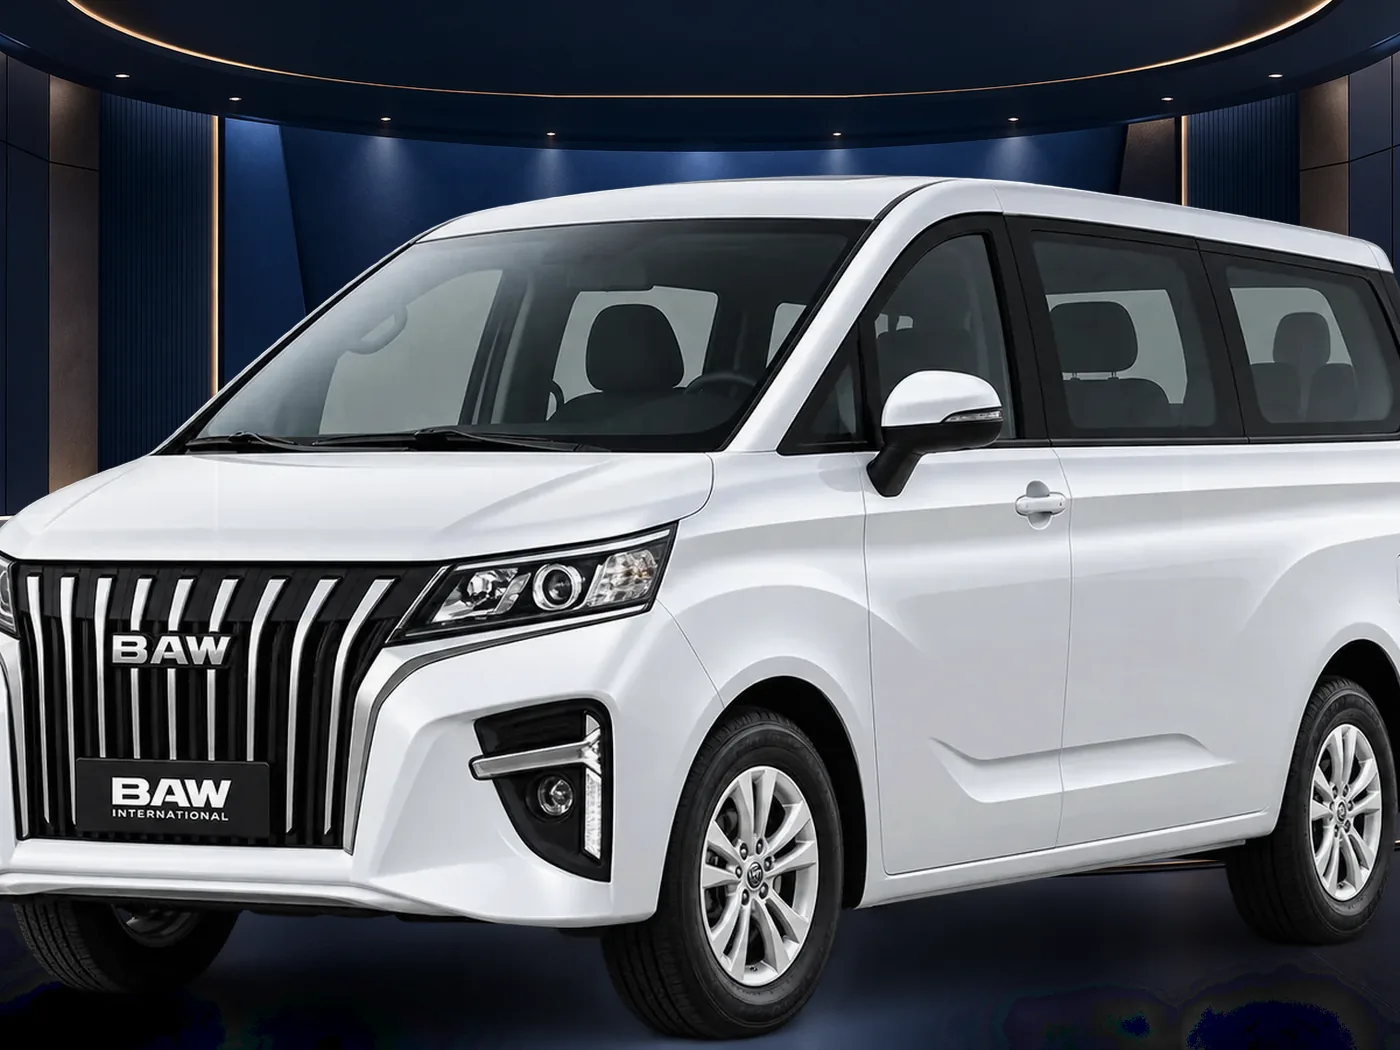
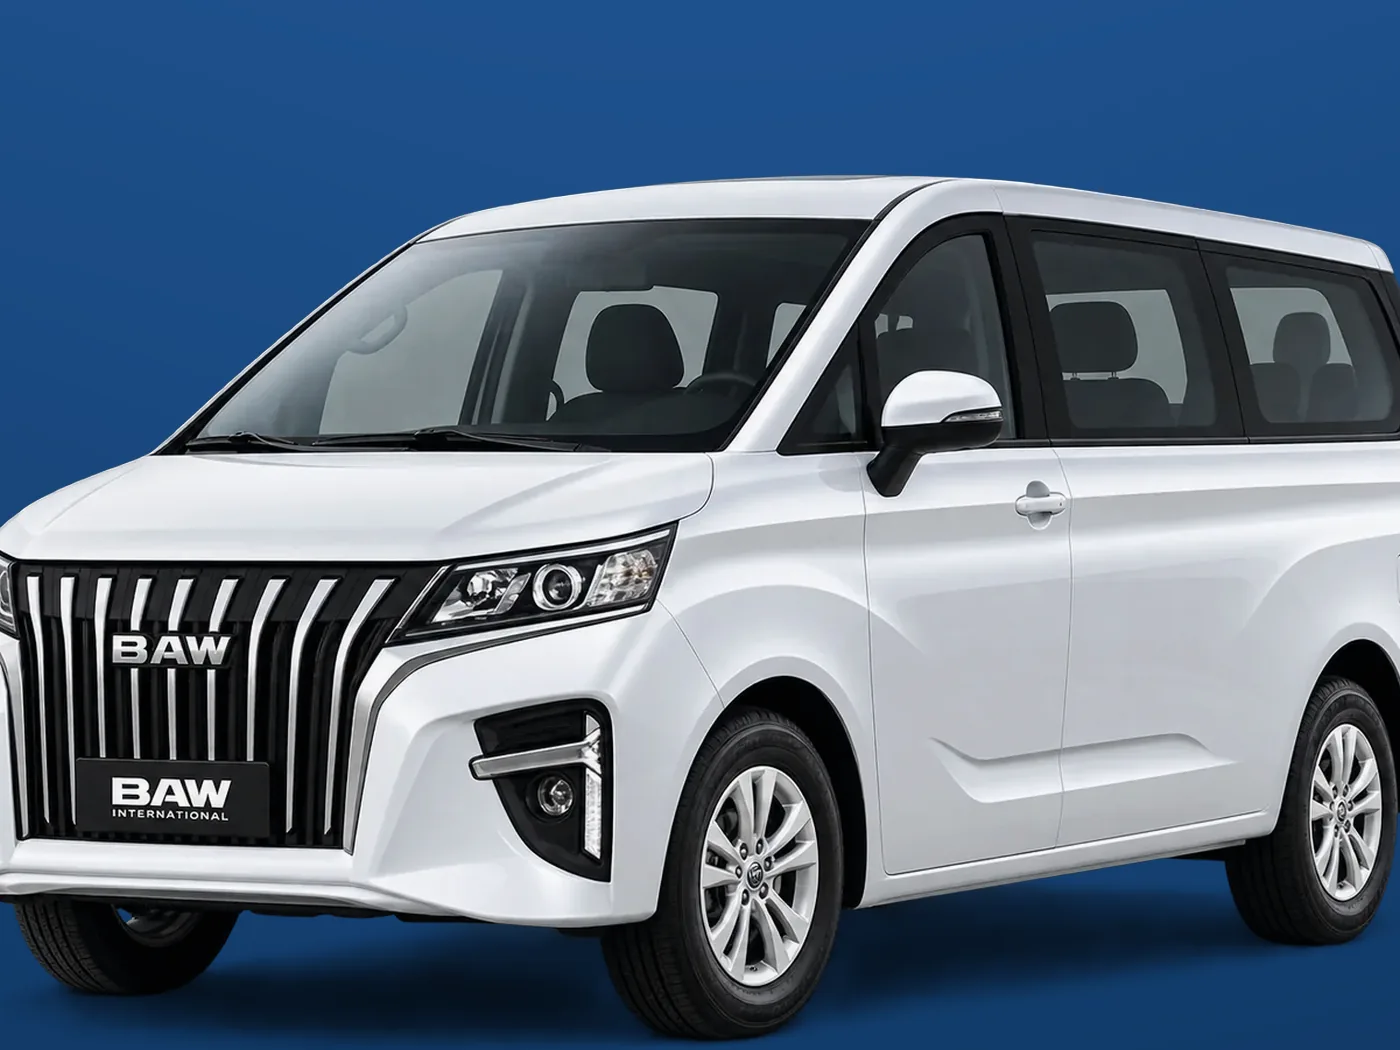
feat: fundo azul uniforme em toda a frota
Substitui o showroom fotográfico (official-blue-premium) por um fundo azul
liso na tonalidade da marca (official-blue-flat) para que todos os cards da
frota fiquem coerentes — cards, carrosséis, galeria e comparador usam
FLEET_STUDIO_BACKGROUNDS via getVehicleStudioBackground.

Os 16 enquadramentos de estúdio das 4 viaturas novas são regerados sobre o
mesmo fundo liso.

diff --git a/src/data/fleetPresentation.ts b/src/data/fleetPresentation.ts
@@ -1,8 +1,10 @@
 import type { VehicleDetail } from './fleetData';
 
+// Fundo único e uniforme para toda a frota — tonalidade azul da marca.
+// Substitui o showroom fotográfico para que todos os cards fiquem coerentes.
 export const FLEET_STUDIO_BACKGROUNDS = {
-  default: '/studio/background-options/official-blue-premium.png',
-  luxury: '/studio/background-options/official-blue-premium.png'
+  default: '/studio/background-options/official-blue-flat.png',
+  luxury: '/studio/background-options/official-blue-flat.png'
 } as const;
 
 export const getVehicleStudioBackground = (_vehicle: Pick<VehicleDetail, 'category'>): string =>
